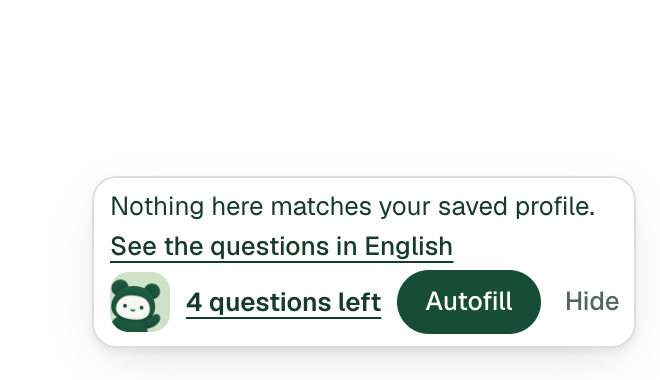
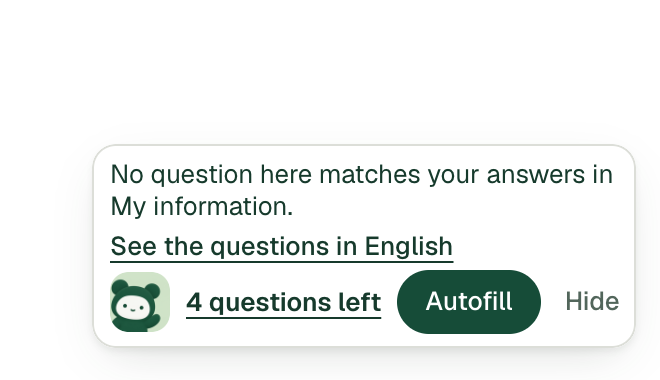
fix: name My information instead of a saved profile when nothing matches
"Nothing here matches your saved profile" used a word the product doesn't, and
two reviewers found it vague. It now says no question on the page matches the
reader's answers in My information, the app's own name for them.

Changed region(s): [[0.1212, 0.4342, 0.9697, 0.5211], [0.1515, 0.5211, 0.9091, 0.5789], [0.1515, 0.3763, 0.9394, 0.4053]]

diff --git a/extension/strings.js b/extension/strings.js
@@ -384,7 +384,7 @@
     'result.movesOn': 'SecondHand moves on once nothing is left.',
     'result.needYouNotSaved': '{count} left for you, with no saved answer.',
     'result.nothingNew': 'Nothing new to fill.',
-    'result.nothingMatches': 'Nothing here matches your saved profile.',
+    'result.nothingMatches': 'No question here matches your answers in My information.',
     'result.noSavedAnswers': 'No saved answer for what is left.',
     'result.thenTodo': '{summary} {todo}',
     'result.withReason': '{summary} {reason}',
@@ -392,7 +392,7 @@
     'result.siteFilledGuessed': { one: 'Filled {count} answer · {guessed} guessed. Check it before you submit.', other: 'Filled {count} answers · {guessed} guessed. Check them before you submit.' },
     'result.siteFilledNeedYou': { one: 'Filled {count} answer · {needYou} left for you. Check it before you submit.', other: 'Filled {count} answers · {needYou} left for you. Check them before you submit.' },
     'result.siteFilledGuessedNeedYou': { one: 'Filled {count} answer · {guessed} guessed · {needYou} left for you. Check it before you submit.', other: 'Filled {count} answers · {guessed} guessed · {needYou} left for you. Check them before you submit.' },
-    'result.nothingMatchesNeedYou': 'Nothing here matches your saved profile. {count} left for you.',
+    'result.nothingMatchesNeedYou': 'No question here matches your answers in My information. {count} left for you.',
     'result.siteNeedYou': '{count} left for you.',
     'result.withHeld': { one: '{summary} {count} sensitive detail waits until you click Fill sensitive details in the side panel.', other: '{summary} {count} sensitive details wait until you click Fill sensitive details in the side panel.' },
     'result.nothingToFillNext': 'Nothing to fill here. Click Next, then Autofill again.',
@@ -881,7 +881,7 @@
     'result.movesOn': 'SecondHand avanzará cuando no falte nada.',
     'result.needYouNotSaved': 'Por contestar: {count}. No están en su perfil guardado.',
     'result.nothingNew': 'No hay nada nuevo que llenar.',
-    'result.nothingMatches': 'Nada aquí coincide con su perfil guardado.',
+    'result.nothingMatches': 'Ninguna pregunta de aquí coincide con sus respuestas en “My information”.',
     'result.noSavedAnswers': 'No hay respuesta guardada para lo que falta.',
     'result.thenTodo': '{summary} {todo}',
     'result.withReason': '{summary} {reason}',
@@ -889,7 +889,7 @@
     'result.siteFilledGuessed': { one: 'Se llenó {count} respuesta · Laya adivinó {guessed}. Revísela antes de enviar.', other: 'Se llenaron {count} respuestas · Laya adivinó {guessed}. Revíselas antes de enviar.' },
     'result.siteFilledNeedYou': { one: 'Se llenó {count} respuesta · {needYou} sin contestar. Revísela antes de enviar.', other: 'Se llenaron {count} respuestas · {needYou} sin contestar. Revíselas antes de enviar.' },
     'result.siteFilledGuessedNeedYou': { one: 'Se llenó {count} respuesta · Laya adivinó {guessed} · {needYou} sin contestar. Revísela antes de enviar.', other: 'Se llenaron {count} respuestas · Laya adivinó {guessed} · {needYou} sin contestar. Revíselas antes de enviar.' },
-    'result.nothingMatchesNeedYou': 'Nada aquí coincide con su perfil guardado. Por contestar: {count}.',
+    'result.nothingMatchesNeedYou': 'Ninguna pregunta de aquí coincide con sus respuestas en “My information”. {count} sin contestar.',
     'result.siteNeedYou': 'Por contestar: {count}.',
     'result.withHeld': { one: '{summary} {count} dato sensible espera hasta que usted haga clic en “Llenar datos sensibles” en el panel lateral.', other: '{summary} {count} datos sensibles esperan hasta que usted haga clic en “Llenar datos sensibles” en el panel lateral.' },
     'result.nothingToFillNext': 'No hay nada que llenar aquí. Haga clic en “Next” y luego en “Autocompletar” otra vez.',
@@ -1376,7 +1376,7 @@
     'result.movesOn': 'SecondHand sẽ đi tiếp khi không còn gì.',
     'result.needYouNotSaved': '{count} mục cần bạn. Chúng không có trong hồ sơ đã lưu của bạn.',
     'result.nothingNew': 'Không có gì mới để điền.',
-    'result.nothingMatches': 'Không có mục nào ở đây khớp với hồ sơ đã lưu của bạn.',
+    'result.nothingMatches': 'Không có câu hỏi nào ở đây khớp với câu trả lời của bạn trong “My information”.',
     'result.noSavedAnswers': 'Không có câu trả lời đã lưu cho những gì còn lại.',
     'result.thenTodo': '{summary} {todo}',
     'result.withReason': '{summary} {reason}',
@@ -1384,7 +1384,7 @@
     'result.siteFilledGuessed': { one: 'Đã điền {count} câu trả lời · {guessed} là đoán. Hãy kiểm tra lại trước khi nộp.', other: 'Đã điền {count} câu trả lời · {guessed} là đoán. Hãy kiểm tra lại trước khi nộp.' },
     'result.siteFilledNeedYou': { one: 'Đã điền {count} câu trả lời · {needYou} mục cần bạn. Hãy kiểm tra lại trước khi nộp.', other: 'Đã điền {count} câu trả lời · {needYou} mục cần bạn. Hãy kiểm tra lại trước khi nộp.' },
     'result.siteFilledGuessedNeedYou': { one: 'Đã điền {count} câu trả lời · {guessed} là đoán · {needYou} mục cần bạn. Hãy kiểm tra lại trước khi nộp.', other: 'Đã điền {count} câu trả lời · {guessed} là đoán · {needYou} mục cần bạn. Hãy kiểm tra lại trước khi nộp.' },
-    'result.nothingMatchesNeedYou': 'Không có mục nào ở đây khớp với hồ sơ đã lưu của bạn. {count} mục cần bạn.',
+    'result.nothingMatchesNeedYou': 'Không có câu hỏi nào ở đây khớp với câu trả lời của bạn trong “My information”. {count} mục cần bạn.',
     'result.siteNeedYou': '{count} mục cần bạn.',
     'result.withHeld': { one: '{summary} {count} thông tin nhạy cảm đang chờ cho đến khi bạn bấm Điền thông tin nhạy cảm trong bảng bên.', other: '{summary} {count} thông tin nhạy cảm đang chờ cho đến khi bạn bấm Điền thông tin nhạy cảm trong bảng bên.' },
     'result.nothingToFillNext': 'Ở đây không có gì để điền. Hãy bấm “Next”, rồi bấm Tự điền lại.',
@@ -1872,7 +1872,7 @@
     'result.movesOn': '全部填完后，SecondHand 会继续。',
     'result.needYouNotSaved': '{count} 项需要您处理。它们不在您保存的资料中。',
     'result.nothingNew': '没有新的内容需要填写。',
-    'result.nothingMatches': '这里没有与您保存的资料相符的内容。',
+    'result.nothingMatches': '这里没有问题与您在“My information”中的答案相符。',
     'result.noSavedAnswers': '剩下的问题没有保存的答案。',
     'result.thenTodo': '{summary} {todo}',
     'result.withReason': '{summary} {reason}',
@@ -1880,7 +1880,7 @@
     'result.siteFilledGuessed': { one: '已填写 {count} 个答案 · {guessed} 个为推测。提交前请检查您的答案。', other: '已填写 {count} 个答案 · {guessed} 个为推测。提交前请检查您的答案。' },
     'result.siteFilledNeedYou': { one: '已填写 {count} 个答案 · {needYou} 项需要您处理。提交前请检查您的答案。', other: '已填写 {count} 个答案 · {needYou} 项需要您处理。提交前请检查您的答案。' },
     'result.siteFilledGuessedNeedYou': { one: '已填写 {count} 个答案 · {guessed} 个为推测 · {needYou} 项需要您处理。提交前请检查您的答案。', other: '已填写 {count} 个答案 · {guessed} 个为推测 · {needYou} 项需要您处理。提交前请检查您的答案。' },
-    'result.nothingMatchesNeedYou': '这里没有与您保存的资料相符的内容。{count} 项需要您处理。',
+    'result.nothingMatchesNeedYou': '这里没有问题与您在“My information”中的答案相符。{count} 项需要您处理。',
     'result.siteNeedYou': '{count} 项需要您处理。',
     'result.withHeld': { one: '{summary}{count} 项敏感信息正在等待，请在侧边栏中点击“填写敏感信息”。', other: '{summary}{count} 项敏感信息正在等待，请在侧边栏中点击“填写敏感信息”。' },
     'result.nothingToFillNext': '这里没有可填写的内容。请点击 “Next”，然后再次点击自动填写。',
@@ -2368,7 +2368,7 @@
     'result.movesOn': 'SecondHand avance quand plus rien ne manque.',
     'result.needYouNotSaved': '{count} question(s) pour vous. Elles ne sont pas dans votre profil enregistré.',
     'result.nothingNew': 'Rien de nouveau à remplir.',
-    'result.nothingMatches': 'Rien ici ne correspond à votre profil enregistré.',
+    'result.nothingMatches': 'Aucune question ici ne correspond à vos réponses dans « My information ».',
     'result.noSavedAnswers': 'Pas de réponse enregistrée pour ce qui reste.',
     'result.thenTodo': '{summary} {todo}',
     'result.withReason': '{summary} {reason}',
@@ -2376,7 +2376,7 @@
     'result.siteFilledGuessed': { one: '{count} réponse remplie · {guessed} devinée(s). Vérifiez-la avant d’envoyer.', other: '{count} réponses remplies · {guessed} devinée(s). Vérifiez-les avant d’envoyer.' },
     'result.siteFilledNeedYou': { one: '{count} réponse remplie · {needYou} pour vous. Vérifiez-la avant d’envoyer.', other: '{count} réponses remplies · {needYou} pour vous. Vérifiez-les avant d’envoyer.' },
     'result.siteFilledGuessedNeedYou': { one: '{count} réponse remplie · {guessed} devinée(s) · {needYou} pour vous. Vérifiez-la avant d’envoyer.', other: '{count} réponses remplies · {guessed} devinée(s) · {needYou} pour vous. Vérifiez-les avant d’envoyer.' },
-    'result.nothingMatchesNeedYou': 'Rien ici ne correspond à votre profil enregistré. {count} question(s) pour vous.',
+    'result.nothingMatchesNeedYou': 'Aucune question ici ne correspond à vos réponses dans « My information ». {count} question(s) pour vous.',
     'result.siteNeedYou': '{count} question(s) pour vous.',
     'result.withHeld': { one: '{summary} {count} information sensible attend que vous cliquiez sur « Remplir les informations sensibles » dans le panneau latéral.', other: '{summary} {count} informations sensibles attendent que vous cliquiez sur « Remplir les informations sensibles » dans le panneau latéral.' },
     'result.nothingToFillNext': 'Rien à remplir ici. Cliquez sur « Next », puis de nouveau sur Remplir.',
@@ -2864,7 +2864,7 @@
     'result.movesOn': 'يتابع SecondHand عندما لا يتبقى شيء.',
     'result.needYouNotSaved': 'بحاجة إليك: {count}. هذه الأسئلة ليست في ملفك المحفوظ.',
     'result.nothingNew': 'لا يوجد شيء جديد للتعبئة.',
-    'result.nothingMatches': 'لا شيء هنا يطابق ملفك المحفوظ.',
+    'result.nothingMatches': 'لا يوجد سؤال هنا يطابق إجاباتك في “My information”.',
     'result.noSavedAnswers': 'لا توجد إجابة محفوظة لما تبقّى.',
     'result.thenTodo': '{summary} {todo}',
     'result.withReason': '{summary} {reason}',
@@ -2872,7 +2872,7 @@
     'result.siteFilledGuessed': { one: 'الإجابات المعبأة: {count} · تخمين: {guessed}. تحقق منها قبل الإرسال.', other: 'الإجابات المعبأة: {count} · تخمين: {guessed}. تحقق منها قبل الإرسال.' },
     'result.siteFilledNeedYou': { one: 'الإجابات المعبأة: {count} · بحاجة إليك: {needYou}. تحقق منها قبل الإرسال.', other: 'الإجابات المعبأة: {count} · بحاجة إليك: {needYou}. تحقق منها قبل الإرسال.' },
     'result.siteFilledGuessedNeedYou': { one: 'الإجابات المعبأة: {count} · تخمين: {guessed} · بحاجة إليك: {needYou}. تحقق منها قبل الإرسال.', other: 'الإجابات المعبأة: {count} · تخمين: {guessed} · بحاجة إليك: {needYou}. تحقق منها قبل الإرسال.' },
-    'result.nothingMatchesNeedYou': 'لا شيء هنا يطابق ملفك المحفوظ. بحاجة إليك: {count}.',
+    'result.nothingMatchesNeedYou': 'لا يوجد سؤال هنا يطابق إجاباتك في “My information”. بحاجة إليك: {count}.',
     'result.siteNeedYou': 'بحاجة إليك: {count}.',
     'result.withHeld': { one: '{summary} بيانات حساسة تنتظر حتى تنقر على “تعبئة البيانات الحساسة” في اللوحة الجانبية: {count}.', other: '{summary} بيانات حساسة تنتظر حتى تنقر على “تعبئة البيانات الحساسة” في اللوحة الجانبية: {count}.' },
     'result.nothingToFillNext': 'لا يوجد ما يُعبّأ هنا. انقر على “Next”، ثم على تعبئة تلقائية مرة أخرى.',
